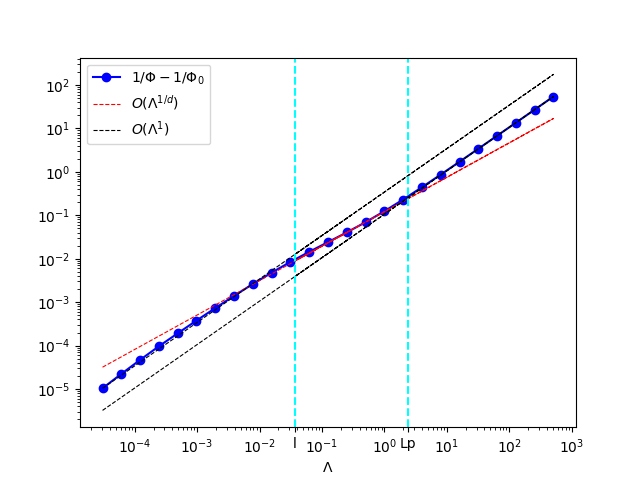
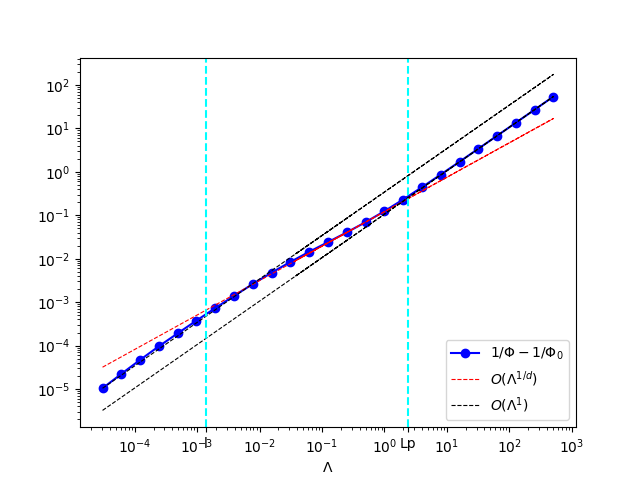
update

diff --git a/Ex4_square_cantor/read_csv.py b/Ex4_square_cantor/read_csv.py
@@ -5,7 +5,7 @@ from collections import defaultdict
 import numpy as np
 columns = defaultdict(list) # each value in each column is appended to a list
 nn=3
-l=(1/3)**nn
+l=(1/9)**nn
 Lp=(4/3)**nn
 dim_frac=np.log(4)/np.log(3)
 

diff --git a/Ex4_square_cantor/main_flux.py b/Ex4_square_cantor/main_flux.py
@@ -19,8 +19,8 @@ import numpy as np
 mesh_size=1
 deg=5
 nn=3
-l=(1/9)**nn
-Lp=(16/9)**nn
+l=(1/3)**nn
+Lp=(4/3)**nn
 dim_frac=np.log(4)/np.log(3)
 tolerance = 1e-8
 max_iterations = 40
